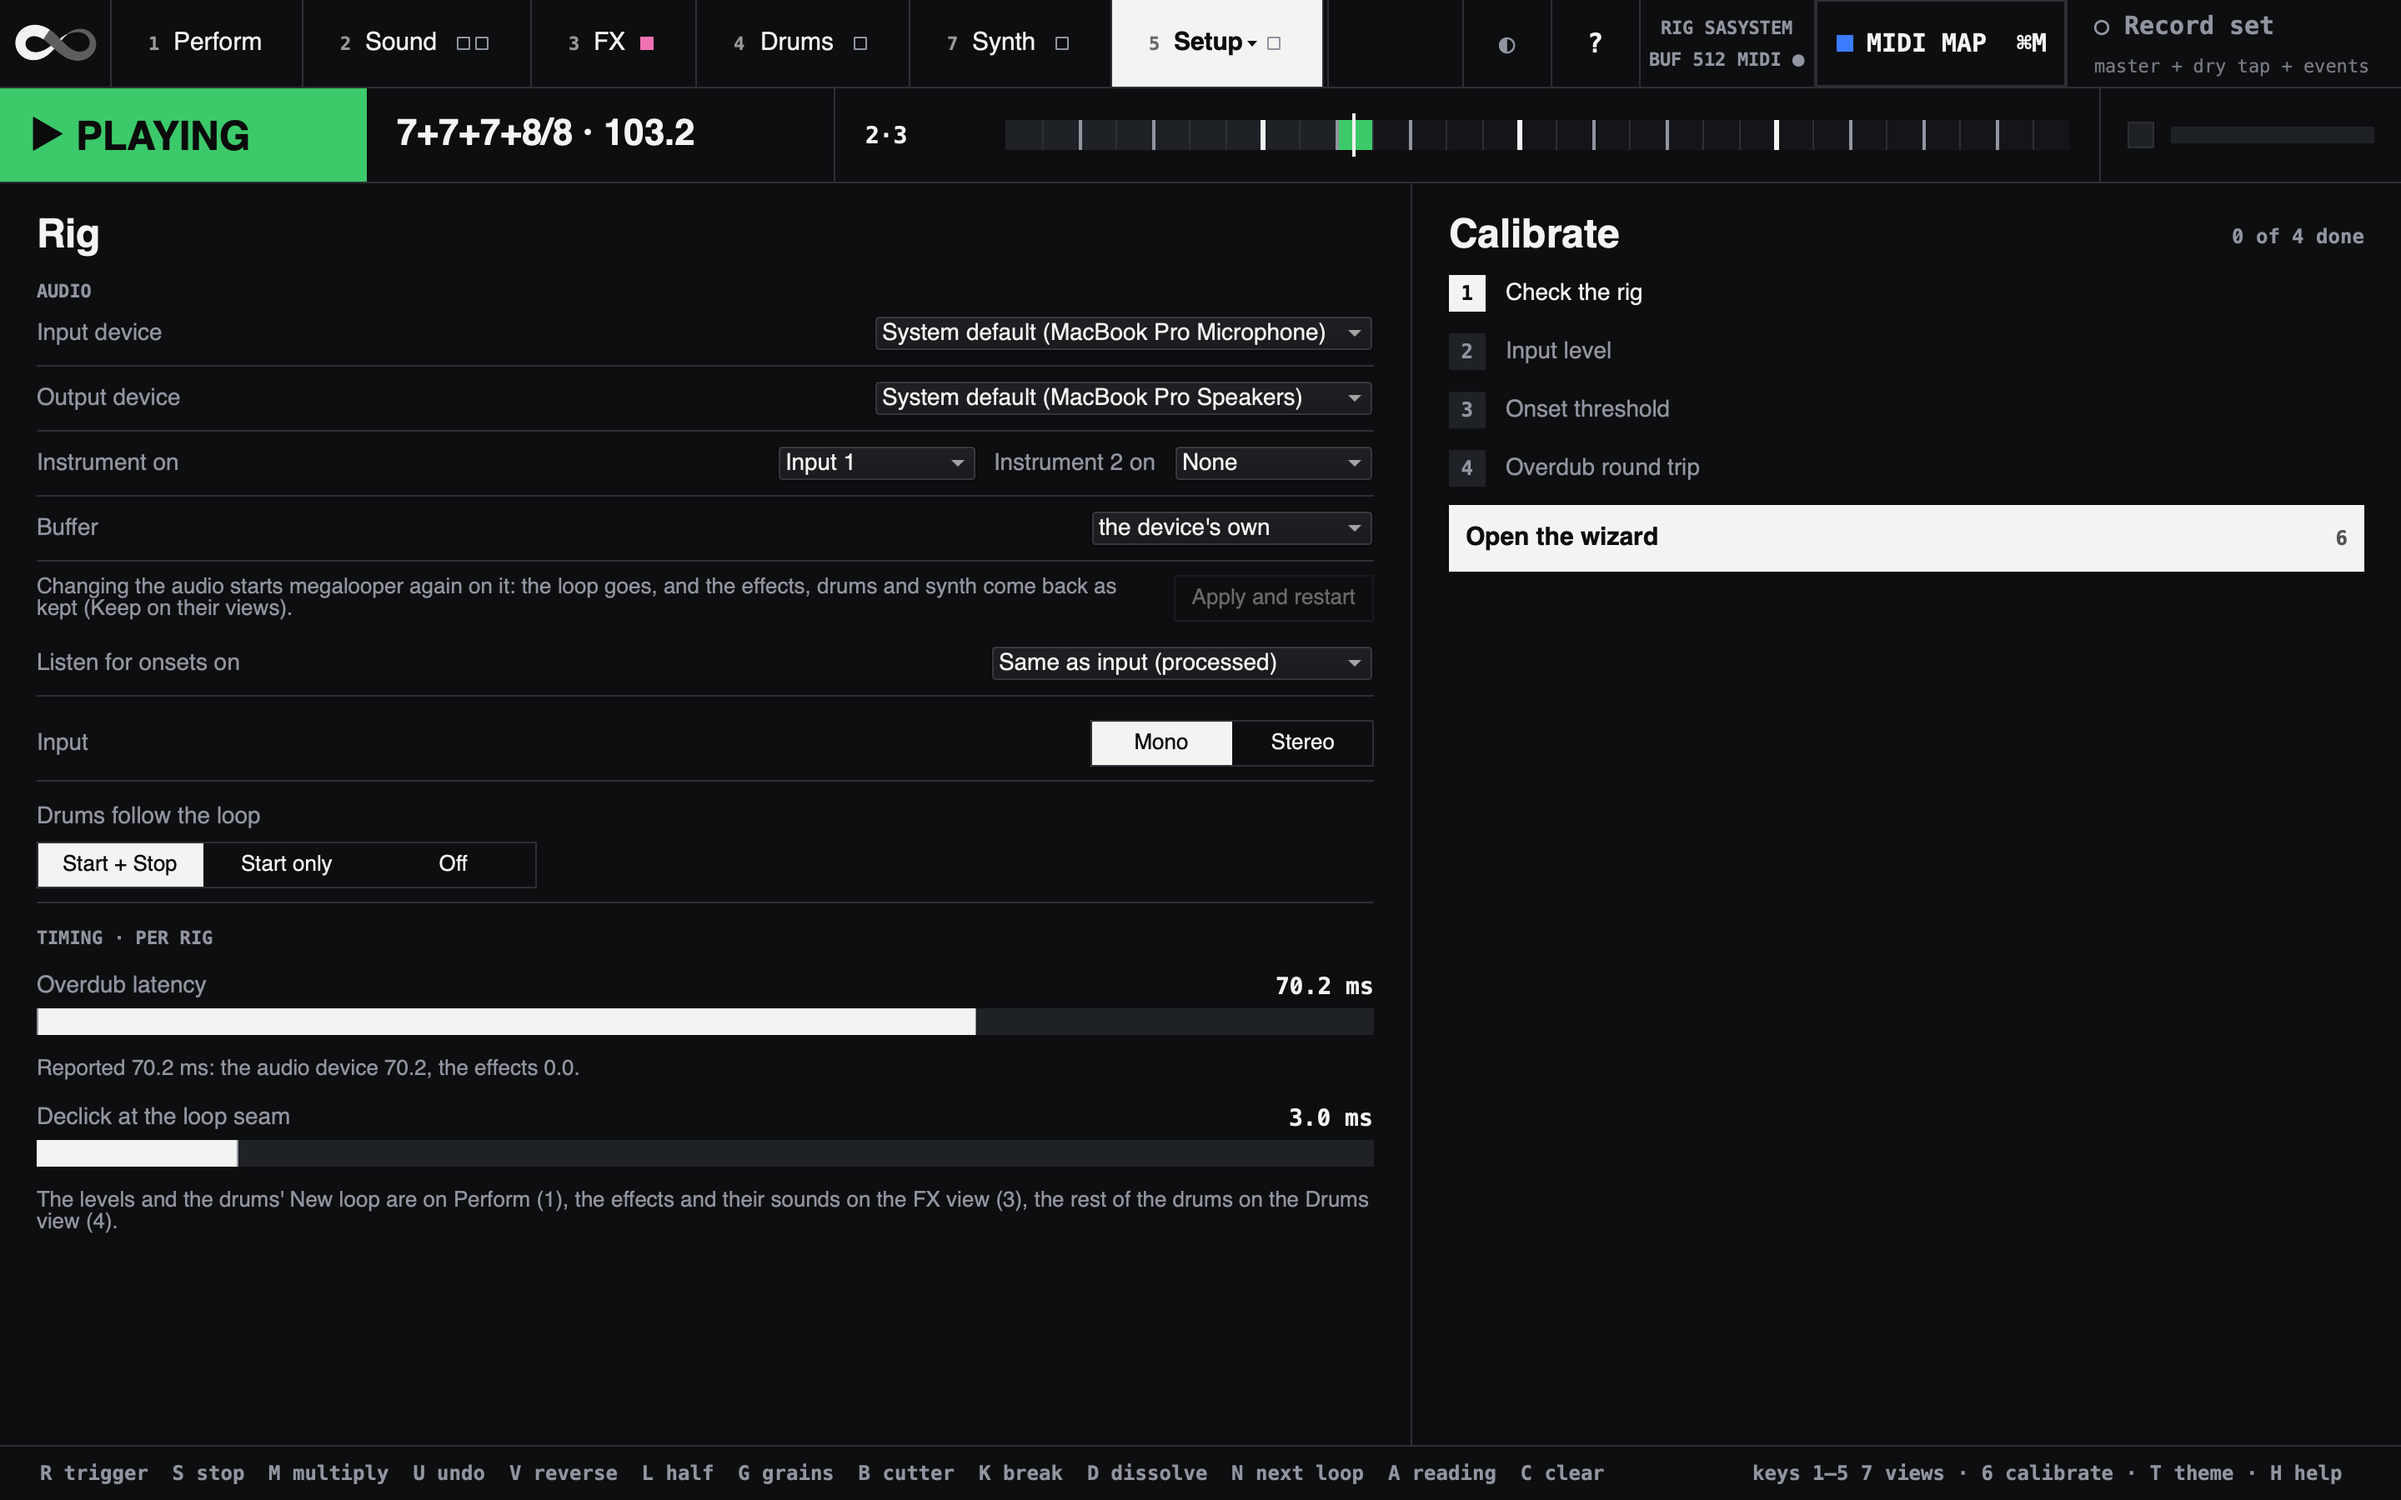
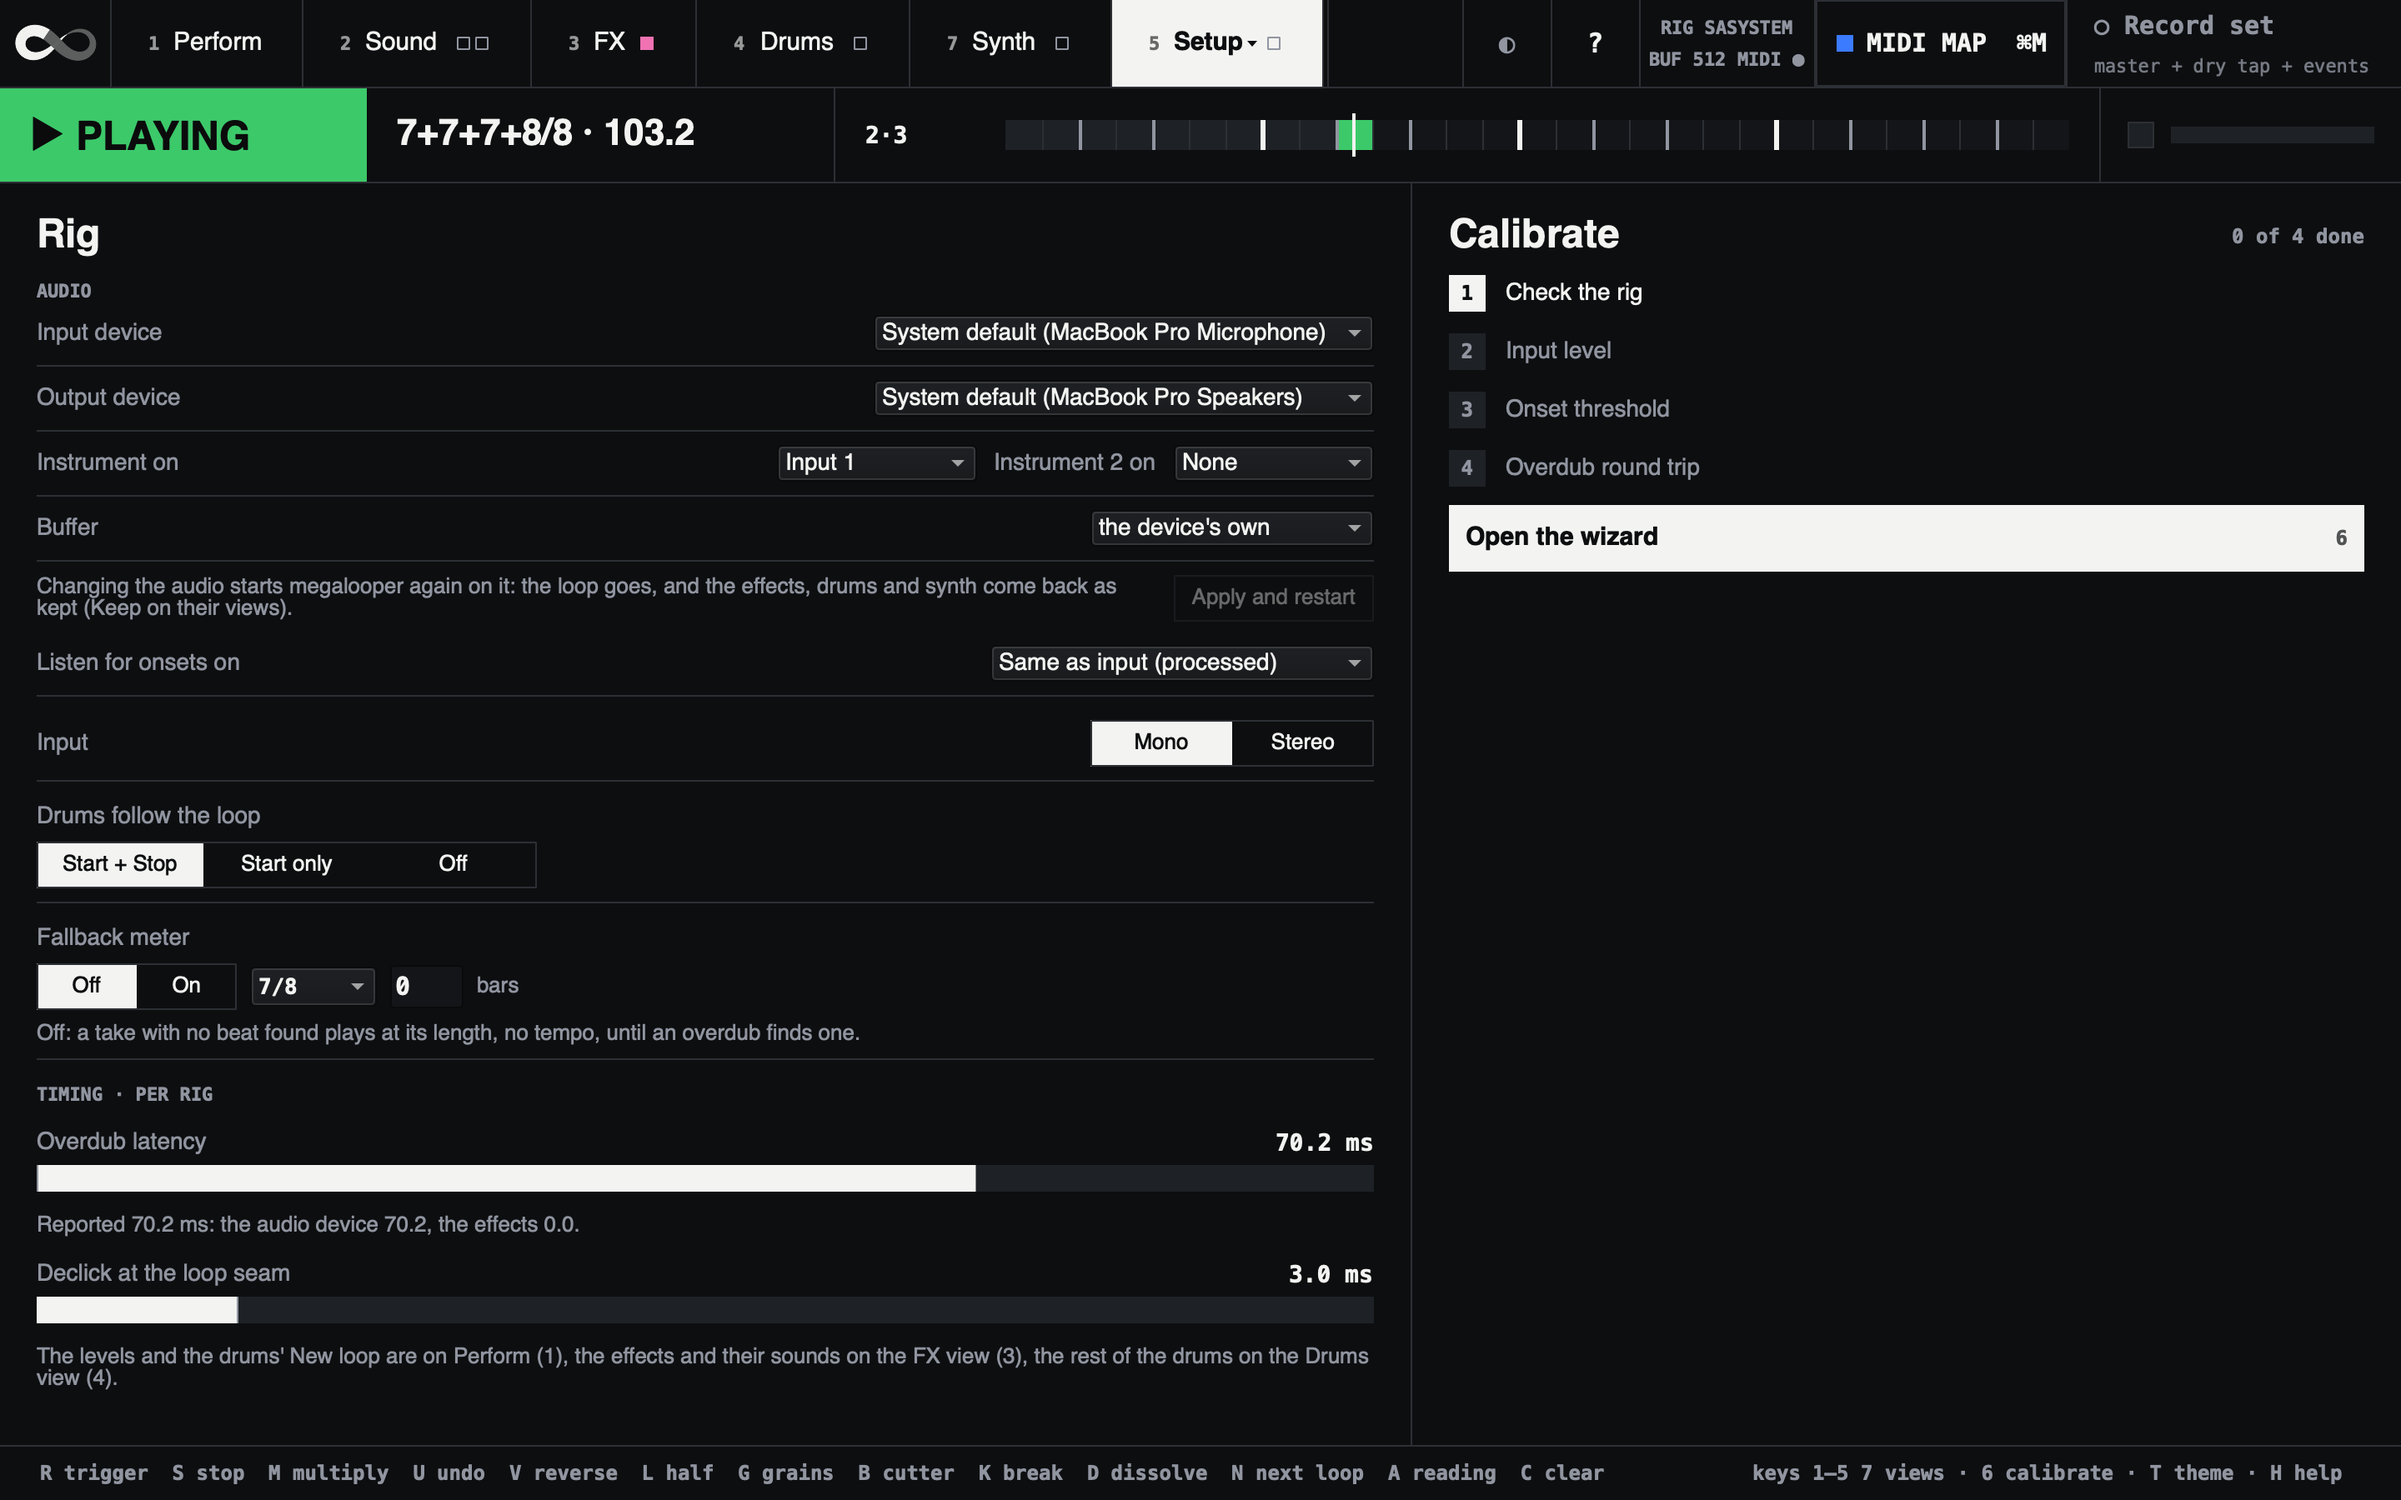
Meter: the fallback meter a switch on the Rig page, off; Overdub meter on
A take whose hits fit no pulse grid was always kept as whole bars of the
fallback meter, and played on at the tempo its length gave. Now that is a
switch, on Setup's Rig page with the meter and the bars it keeps (they left
the Analysis page), off unless switched on, kept in settings.json
("fallbackMeter"). Off, such a take has no meter: MeterAnalyzer answers
\noFit (fallbackFor; Looper.snapAnalysisToLoop goes through it too), the loop
plays at the length recorded with no tempo, the drums and the cutter wait,
and the status band says TAKE · NO METER with what finds one. The whole
loop's reading no longer gives way to a fallback that is not in use.

Overdub meter is on from the start (Looper.analyzeOverdubs): with no
fallback it is how a take with no beat found gets its meter, and it still
leaves a loop with a meter alone.

MeterAnalyzer.fallbackOn is on for the library, so the tests and the offline
harnesses read as before; boot applies settings.json after the MIDI
settings. The set's header says fallbackOn. test-meter-analyzer pins no
meter, the snap keeping the length, and the whole loop answering; each check
fails when its part goes. test-miditargets and test-reading follow the new
default. check-gui has the switch (not run: its server quits at boot on this
Mac, with and without megalooper running). The manual has The fallback
meter; the Rig, Analysis and status band shots are rendered again (the
render sets the fallback as a start does).

diff --git a/docs/manual.md b/docs/manual.md
@@ -529,7 +529,7 @@ Sound, FX, Drums, Synth and Setup) plus Calibrate, and a footer.
 | **FX** | 3 | The **effects** chains (click a block to edit it, its square to switch it) and their sounds |
 | **Drums** | 4 | The **drums** (step sequencer, timing, kits, mix) |
 | **Synth** | 7 | The note sequencer, the Wave synth or a VST instrument, and their presets ([The synth](synth.md)) |
-| **Setup** | 5 | Three pages, picked from the menu its tab opens (key **5** again: the next page). **Rig**: profile, device, analysis input, input, Drums follow the loop and the timing bars, and **Calibrate** (where the wizard is) beside them · **Analysis**: monitor, counts, threshold, onset notes, pitch, fallback meter, bars by hand, export · **MIDI & AI**: the MIDI map, **MIDI in**, **AI apps** ([AI apps](ai.md)) and Record set's **Log every action** ([Every action](#every-action)) |
+| **Setup** | 5 | Three pages, picked from the menu its tab opens (key **5** again: the next page). **Rig**: profile, device, analysis input, input, Drums follow the loop, the fallback meter and the timing bars, and **Calibrate** (where the wizard is) beside them · **Analysis**: monitor, counts, threshold, onset notes, pitch, bars by hand, export · **MIDI & AI**: the MIDI map, **MIDI in**, **AI apps** ([AI apps](ai.md)) and Record set's **Log every action** ([Every action](#every-action)) |
 | **Calibrate** | 6 | The wizard, step by step; Esc goes back to Setup's Rig page |
 
 ![The Sound view](images/sound.png)
@@ -708,7 +708,9 @@ so nothing here can be clicked into a state you didn't intend.
   detection chose, which is also where it started the drums.
 - **Take** — what the analyser decided: `7/8`, `103.2` BPM, `2` bars, the key;
   `TAKE · ANCHORED` when the loop fell back to the length-anchored meter, which
-  is also the reason the cutter will refuse to start. When the analyser's
+  is also the reason the cutter will refuse to start; `TAKE · NO METER` when
+  nothing fit and the [fallback meter](#the-fallback-meter) is off: the loop
+  plays at its length and the drums wait for an overdub to find the meter. When the analyser's
   runner-up scored close the chip says so — `or 7/4 @ 206.4?` — which is the
   take that wants the next-reading switch; while a reading is armed the chip is
   filled and counts down, `→ 7/4 @ 206.4 BPM · 2 bars · lands in 1 loop`, and
@@ -749,7 +751,7 @@ rest is on Setup's Analysis page (`scripts/gui-analysis.scd`).
 
 ![Setup's Analysis page](images/setup-analysis.png)
 
-*Fig: Setup's Analysis page: the readout, the onset threshold's value, the onset notes, the pitch range, the fallback meter, Bars by hand and the export.*
+*Fig: Setup's Analysis page: the readout, the onset threshold's value, the onset notes, the pitch range, Bars by hand and the export.*
 
 On **Perform**:
 
@@ -790,8 +792,6 @@ In **Setup's Analysis page**:
 - **Min samples · total / per window** — 8 / 3: how many pitch readings a
   take, and each chord window, needs before a key or a chord is named. From
   the next take.
-- **Fallback meter / bars** — see [How meter detection
-  works](#how-meter-detection-works).
 
 A threshold changed from the default belongs to the rig: Calibrate's threshold
 step (optional) keeps it for this rig ([The calibrated
@@ -850,9 +850,11 @@ shares.
 ### Overdub meter detection
 
 For loops that open atmospheric. Take one has no attacks, so no meter is found
-and the drums never start — correct, there is no beat to follow. Turn on
-**Overdub meter** in the take line of the status band, overdub a rhythmic
-pattern, and the meter is derived from *that* instead, then the drums start.
+and the drums never start — correct, there is no beat to follow. Overdub a
+rhythmic pattern and the meter is derived from *that* instead, then the drums
+start. **Overdub meter**, in the take line of the status band, is on from the
+start; with the [fallback meter](#the-fallback-meter) off, as it starts, this
+is how a take with no beat found gets its meter.
 
 - **Runs on `endOverdub`**, and only while the loop still has **no valid meter**
   (a length-anchored fallback counts as none). Without that gate every overdub
@@ -920,8 +922,8 @@ on; when neither does, it lands on the next one and the drums start again from
 it.
 
 Refused, with a line in the log and nothing lit: when nothing is playing, on a
-take that fit no grid, because the length-anchored fallback has no next
-reading to offer, and on a take that only one reading fit. A stop, a clear, a new take or an undo cancels a
+take that fit no grid, because no meter, or the length-anchored fallback, has
+no next reading to offer, and on a take that only one reading fit. A stop, a clear, a new take or an undo cancels a
 reading that has not landed.
 
 ## Onset notes
@@ -1713,7 +1715,7 @@ from the record press, each grid's pulse the loop's length over its number of
 pulses, and only where beat one falls left free. A loop repeats, so its length
 is whole pulses even when the first hit came half a beat after the press,
 which the first fit cannot see. Its gates are a little looser, and it gives
-way to the **Fallback meter** whenever that fits the loop as well. Its
+way to the **Fallback meter**, when that is on, wherever it fits the loop as well. Its
 readings also go to the end of the list the [next
 reading](#the-next-reading) offers. It took the seven training takes from one
 read right to five, and moved none of the duo's own takes that were read right.
@@ -1723,12 +1725,22 @@ onset per pulse, `longMinDensity`). Eight bars of 4/4 at 85 BPM need it: four
 bars of them would be under 50 BPM, so they came out as the fallback. It is
 tried only here because, let in everywhere, it reads a slow four-bar take as
 eight bars at twice its tempo (four of 4/4 at 70 as eight at 140).
-If nothing fits even so, the take
-is *length-anchored*: the loop is kept as whole bars of the **Fallback meter**
-(Setup's Analysis page, 4/4 by default), as many as put the tempo nearest
-110 BPM, or the number you set beside it. The status band says
-`TAKE · ANCHORED`, and the cutter will not start. Fewer than two onsets give no
-reading at all.
+If nothing fits even so, the take has **no meter**, unless the [fallback
+meter](#the-fallback-meter) is on. Fewer than two onsets give no reading at all.
+
+### The fallback meter
+
+What a take gets when nothing fits, on Setup's Rig page. **Off** (as it
+starts): the take has no meter. The loop plays at the length you recorded,
+with no tempo; the drums and the cutter wait, the status band says
+`TAKE · NO METER`, and an overdub finds the meter (**Overdub meter**, on from
+the start: [Overdub meter detection](#overdub-meter-detection)), or **Bars by
+hand** gives it. **On**: the take is *length-anchored*, kept as whole bars of
+the meter beside the switch (7/8 to start), as many as put the tempo nearest
+110 BPM, or the number you set beside it; the drums play to it. The status
+band says `TAKE · ANCHORED`, the cutter will not start, and an overdub can
+still find the real meter. megalooper keeps the switch for the next start; the
+meter starts at 7/8 again.
 
 ### Accent analysis
 
